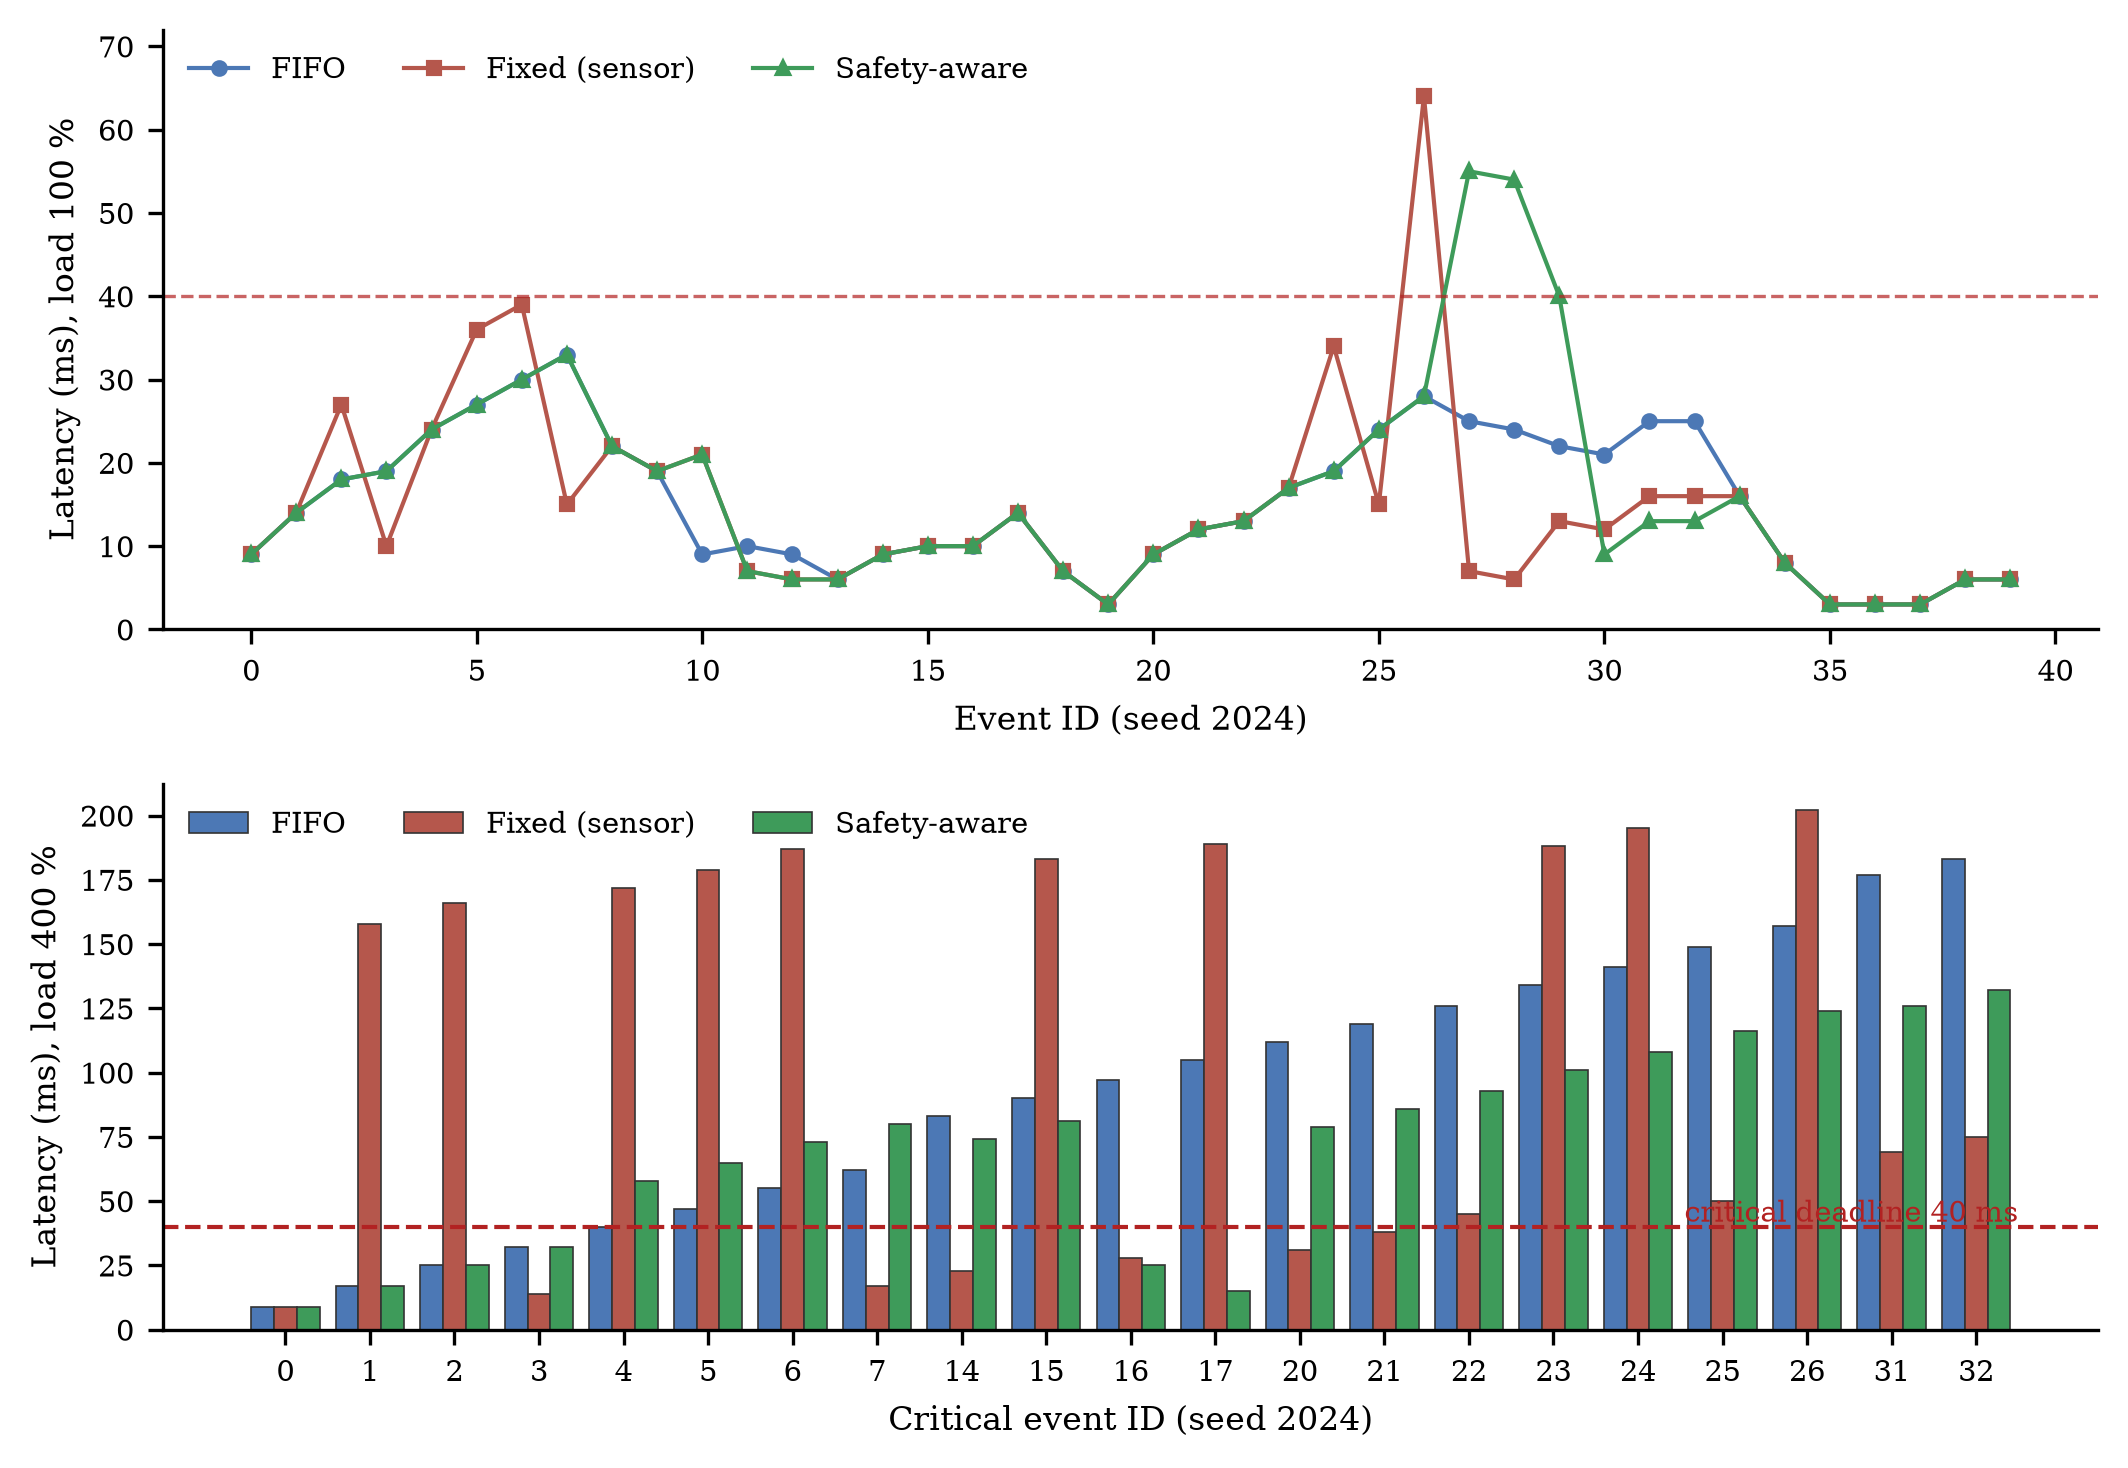
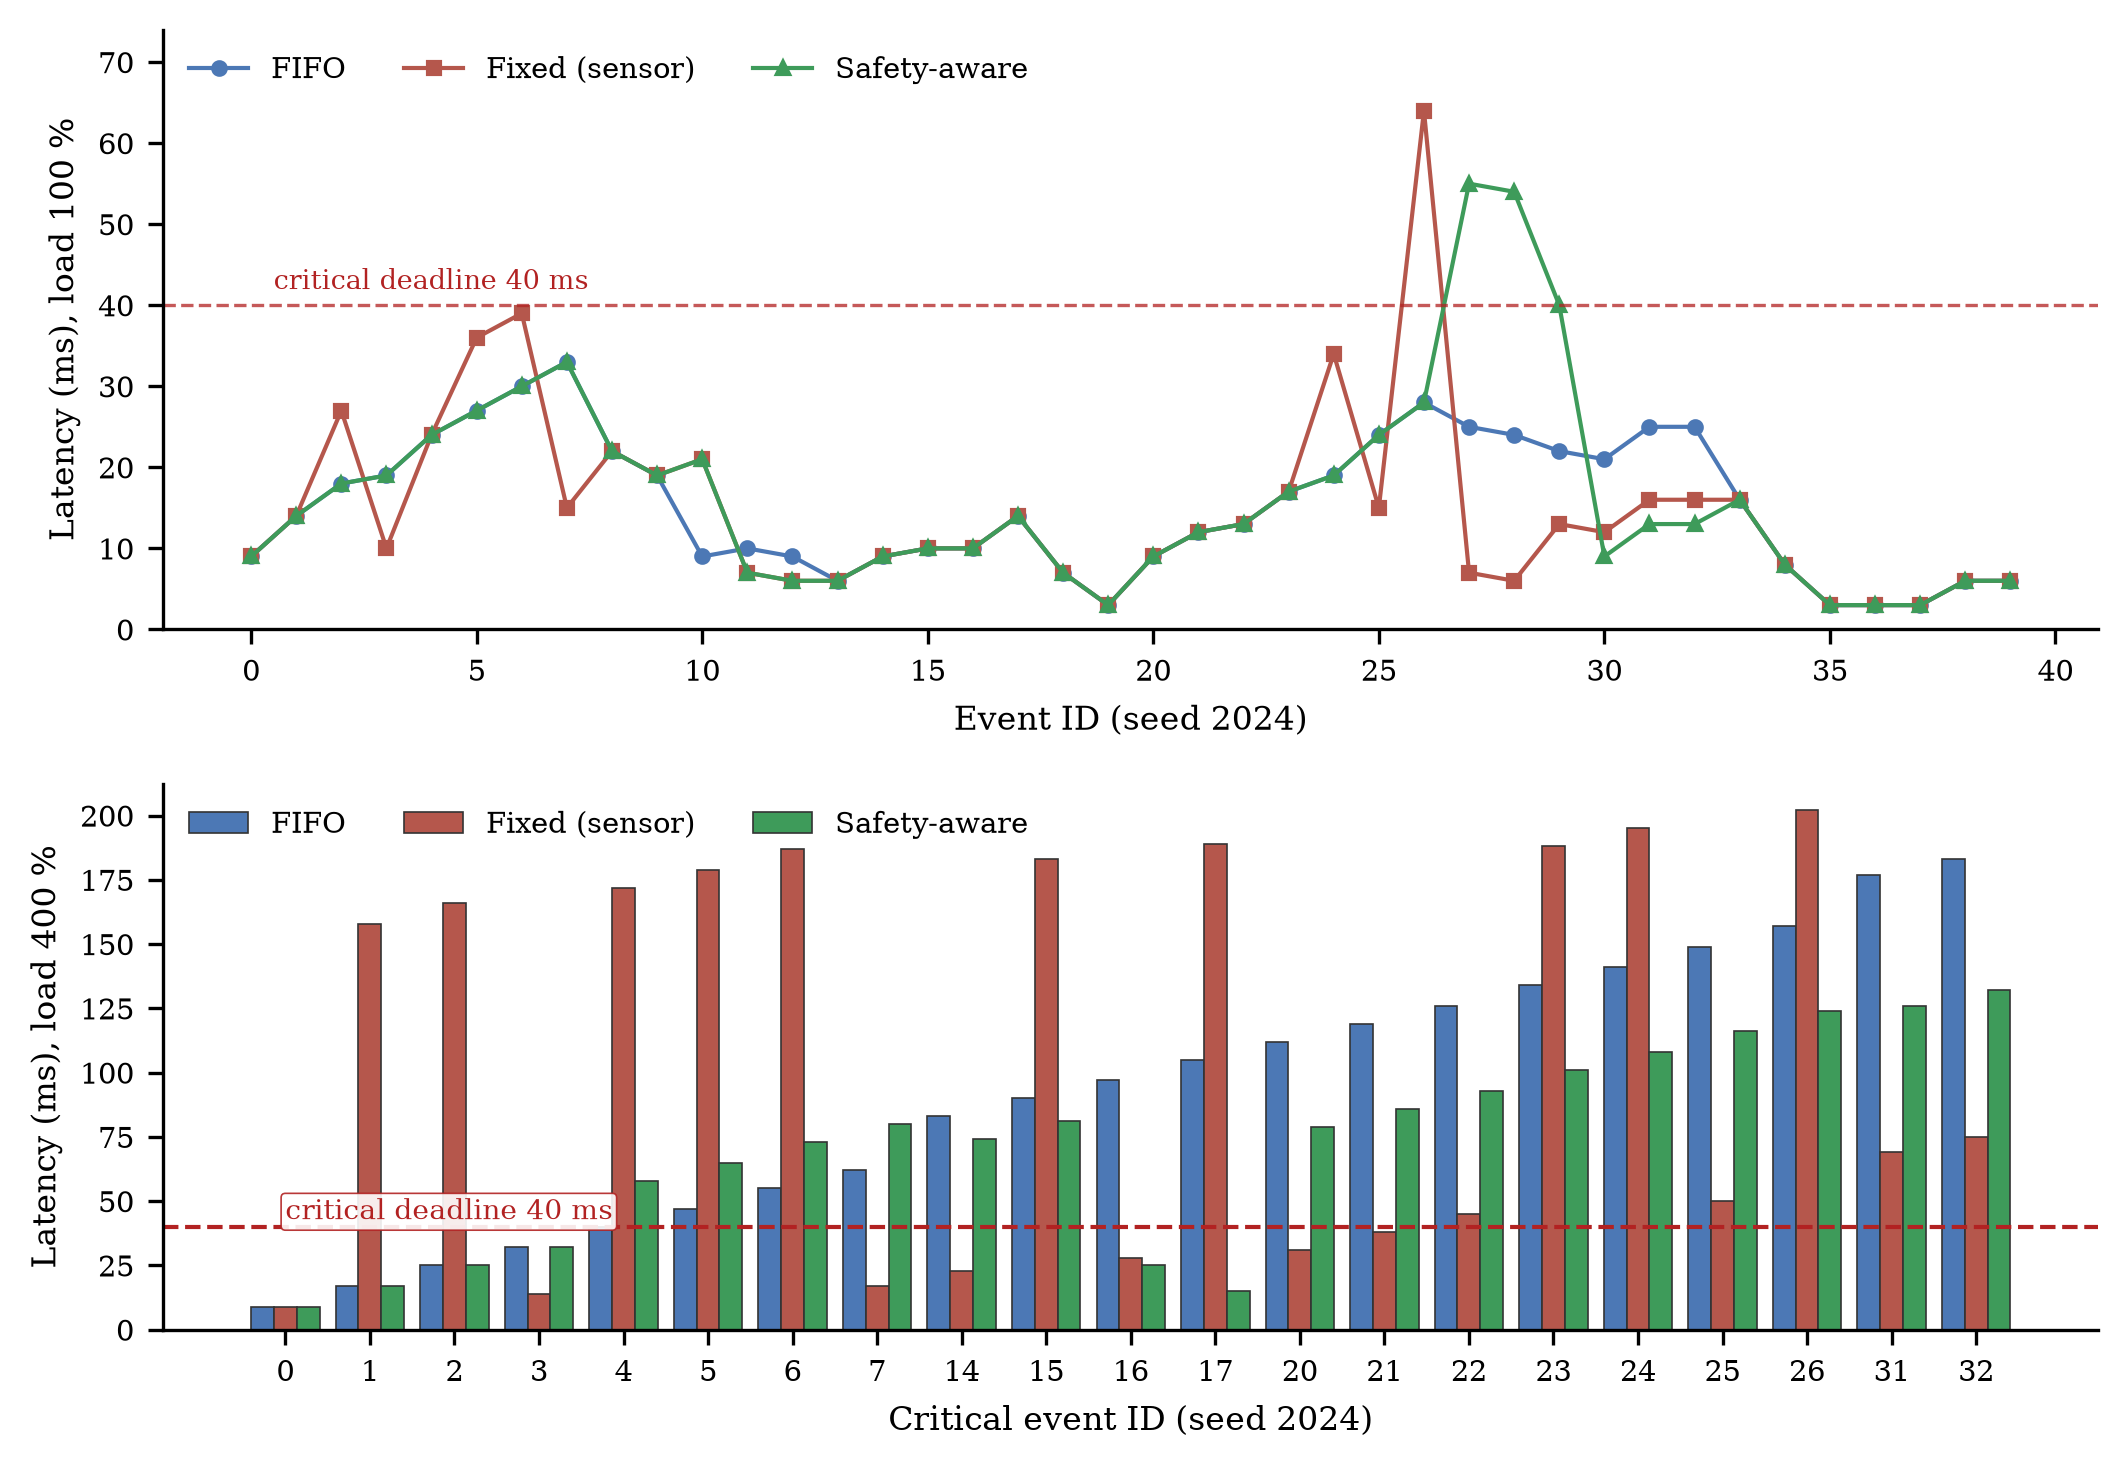
Update architecture, danger-flow, and log-derived plots

diff --git a/experiments_extra/make_figures3.py b/experiments_extra/make_figures3.py
@@ -21,7 +21,7 @@ zc = {"SAFE": "#8FCB9B", "WARNING": "#F2C45A", "CRITICAL": "#E07B72"}
 fig, ax = plt.subplots(figsize=(7.2, 3.0))
 ax.bar(s.id, s.conf, color=[zc[z] for z in s.zone], edgecolor="#333", lw=0.5)
 ax.axhline(40, color="#333", ls="--", lw=1)
-ax.text(39.6, 42, "detection limit 40", ha="right", fontsize=7)
+ax.text(9.0, 42, "detection limit 40", ha="center", fontsize=6.8, bbox=dict(boxstyle="round,pad=0.15", fc="white", ec="none", alpha=0.85))
 box = dict(boxstyle="round,pad=0.2", fc="white", ec="#999", lw=0.5)
 
 fp_rows = s[(s.det == "YES") & (s.tru == "no") & (s.scene == "NOISE")]
@@ -54,12 +54,13 @@ fig, (a1, a2) = plt.subplots(2, 1, figsize=(7.2, 5.0), gridspec_kw={"height_rati
 for k, c, m in [("fifo100", COL["FIFO"], "o"), ("fixed100", COL["FIXED-SENSOR"], "s"), ("sa100", COL["SAFETY-AWARE"], "^")]:
     a1.plot(s.id, s[k], "-" + m, ms=3, lw=1.0, color=c,
             label={"fifo100": "FIFO", "fixed100": "Fixed (sensor)", "sa100": "Safety-aware"}[k])
-a1.axhline(40, color="#B22222", ls="--", lw=0.8, alpha=0.7)
+a1.axhline(40, color="#B22222", ls="--", lw=0.8, alpha=0.75)
+a1.text(0.5, 42, "critical deadline 40 ms", ha="left", fontsize=6.5, color="#B22222")
 a1.set_ylabel("Latency (ms), load 100 %", fontsize=8)
 a1.set_xlabel("Event ID (seed 2024)", fontsize=8)
 a1.legend(fontsize=7, frameon=False, ncol=3, loc="upper left")
 a1.tick_params(labelsize=7)
-a1.set_ylim(0, max(45, s[["fifo100", "fixed100", "sa100"]].max().max() + 8))
+a1.set_ylim(0, max(45, s[["fifo100", "fixed100", "sa100"]].max().max() + 10))
 
 crit = s[s.zone == "CRITICAL"].reset_index(drop=True)
 x = np.arange(len(crit))
@@ -67,7 +68,8 @@ w = 0.27
 for j, (k, c, lab) in enumerate([("fifo400", COL["FIFO"], "FIFO"), ("fixed400", COL["FIXED-SENSOR"], "Fixed (sensor)"), ("sa400", COL["SAFETY-AWARE"], "Safety-aware")]):
     a2.bar(x + (j - 1) * w, crit[k], w, color=c, edgecolor="#333", lw=0.4, label=lab)
 a2.axhline(40, color="#B22222", ls="--", lw=1)
-a2.text(len(crit) - 0.5, 42, "critical deadline 40 ms", ha="right", fontsize=7, color="#B22222")
+a2.text(0.0, 43, "critical deadline 40 ms", ha="left", fontsize=6.8, color="#B22222",
+        bbox=dict(boxstyle="round,pad=0.15", fc="white", ec="#B22222", lw=0.4, alpha=0.9))
 a2.set_xticks(x)
 a2.set_xticklabels(crit.id, fontsize=6.5)
 a2.set_xlabel("Critical event ID (seed 2024)", fontsize=8)
@@ -154,4 +156,60 @@ for i, (t, c) in enumerate(steps):
         ax.add_patch(FancyArrowPatch((50, y - 0.5), (50, y - 6.5), arrowstyle="-|>", mutation_scale=9, lw=1.1, color="#222"))
     y -= 18
 save(fig, "fig_method_flow.png")
+
+# 6. System architecture diagram (Fig. 1, two-column width)
+fig, ax = plt.subplots(figsize=(8.2, 3.1))
+ax.set_xlim(0, 100); ax.set_ylim(0, 42); ax.axis("off")
+arch_boxes = [
+    (1.5, 11, 17.5, 27, "Sensor Input", "Ultrasonic 0-400 cm\nProximity 3-150 cm\nMotion 0-100\n6 scenes (w/ STANDING)\nxorshift, fixed seed", "#DCE6F5"),
+    (21.5, 11, 17.5, 27, "Sensor Fusion", "Scores 0-100\nWeights 35 / 25 / 40\nCross-check penalties\nStationary dual check\nChild present?", "#DDEFD9"),
+    (41.5, 11, 17.5, 27, "Danger Detection", "SAFE (risk 0-34)\nWARNING <= 300 cm\nCRITICAL <= crit_cm\nStopping-dist rule\nRisk score 0-100", "#FCEBC2"),
+    (61.5, 11, 17.5, 27, "Priority Scheduler", "FIFO / Fixed-Sensor\nSafety-aware / Zone\nEDF / Preemptive\nAging after 250 ms", "#E6DDF2"),
+    (81.5, 11, 17.0, 27, "Warning System", "Driver alert\nV2V/C-V2X text\nProcessing log\nPolicy summary", "#F6CFCB"),
+]
+for bx, by, bw, bh, title, body, fc in arch_boxes:
+    ax.add_patch(FancyBboxPatch((bx, by), bw, bh, boxstyle="round,pad=0.3,rounding_size=1.2", fc=fc, ec="#222", lw=1.0))
+    ax.text(bx + bw/2, by + bh - 4.0, title, ha="center", va="center", fontsize=7.2, fontweight="bold")
+    ax.text(bx + bw/2, by + (bh - 5.5)/2, body, ha="center", va="center", fontsize=5.6, linespacing=1.45)
+labels = ["SensorFrame", "FusionResult", "DangerResult", "SchedEvent"]
+for i, lbl in enumerate(labels):
+    x0 = arch_boxes[i][0] + arch_boxes[i][2] + 0.35
+    x1 = arch_boxes[i+1][0] - 0.35
+    ax.add_patch(FancyArrowPatch((x0, 24.5), (x1, 24.5), arrowstyle="-|>", mutation_scale=8, lw=1.0, color="#222"))
+    ax.text((x0 + x1)/2, 8.2, lbl, ha="center", va="center", fontsize=5.8, style="italic")
+ax.add_patch(FancyBboxPatch((1.5, 1.5), 97, 4.5, boxstyle="round,pad=0.2,rounding_size=0.9", fc="#EEEEEE", ec="#222", lw=0.9))
+ax.text(50, 3.75, "C controller compiled static for RISC-V (rv64gc) and profiled per stage with m5ops/rdcycle in gem5 SE mode",
+        ha="center", va="center", fontsize=6.6)
+save(fig, "fig_system_arch.png")
+
+# 7. Danger-zone decision flow diagram (Fig. 3, single-column width)
+fig, ax = plt.subplots(figsize=(3.6, 4.7))
+ax.set_xlim(0, 100); ax.set_ylim(0, 138); ax.axis("off")
+def fbox(x, y, w, h, t, fc, fs=6.1):
+    ax.add_patch(FancyBboxPatch((x, y), w, h, boxstyle="round,pad=0.35,rounding_size=1.2", fc=fc, ec="#222", lw=0.9))
+    ax.text(x + w/2, y + h/2, t, ha="center", va="center", fontsize=fs, linespacing=1.3)
+
+fbox(8,  119, 50, 14, "Fused result\n(confidence, distance,\nboth_close)", "#DCE6F5")
+fbox(4,  89,  58, 19, "Child present?\nconf >= 40 and\n(motion >= 20 or both_close)", "#EEEEEE")
+fbox(74, 91,  22, 15, "SAFE\nrisk 0-34", "#DDEFD9")
+fbox(4,  58,  58, 21, "Distance <= crit_cm?\n(100 cm base; 150-220 cm\nstopping distance / door)", "#EEEEEE")
+fbox(74, 61,  22, 15, "CRITICAL\nrisk 70-100", "#F6CFCB")
+fbox(4,  29,  58, 17, "Distance <= 300 cm?\n(3.0 m bus danger zone)", "#EEEEEE")
+fbox(74, 30,  22, 15, "WARNING\nrisk 35-69", "#FCEBC2")
+fbox(8,  3,   50, 14, "SAFE\nrisk 0-34", "#DDEFD9")
+
+for (x0, y0, x1, y1, lbl, lx, ly) in [
+    (33, 118.5, 33, 108.5, "", 0, 0),
+    (62.5, 98.5, 73.5, 98.5, "no", 68, 102.5),
+    (33, 88.5, 33, 79.5, "yes", 38.5, 84.0),
+    (62.5, 68.5, 73.5, 68.5, "yes", 68, 72.5),
+    (33, 57.5, 33, 46.5, "no", 38.5, 52.0),
+    (62.5, 37.5, 73.5, 37.5, "yes", 68, 41.5),
+    (33, 28.5, 33, 17.5, "no", 38.5, 23.0),
+]:
+    ax.add_patch(FancyArrowPatch((x0, y0), (x1, y1), arrowstyle="-|>", mutation_scale=8.5, lw=1.0, color="#222"))
+    if lbl:
+        ax.text(lx, ly, lbl, ha="center", va="center", fontsize=6.2)
+save(fig, "fig_danger_flow.png")
+
 print("All figures generated cleanly.")
